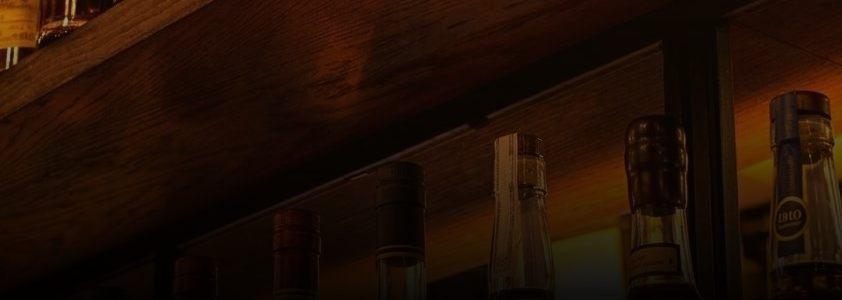
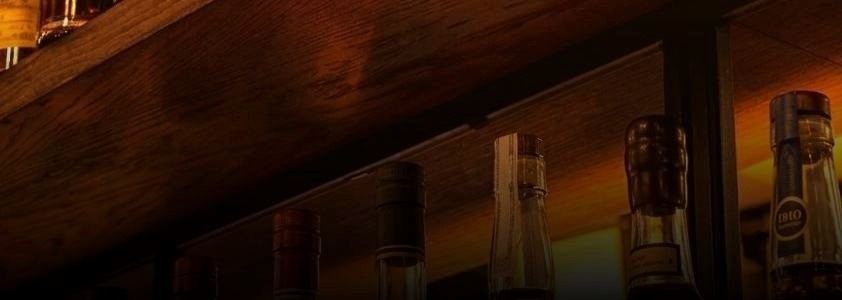
Reduce Home chrome and scope recent ticker

diff --git a/apps/mobile/app/(app)/(tabs)/index.tsx b/apps/mobile/app/(app)/(tabs)/index.tsx
@@ -107,6 +107,7 @@ export default function SignalFeedScreen() {
     community: { ...DEFAULT_SIGNAL_FILTERS },
   });
   const [bottleQueries, setBottleQueries] = useState<Record<FeedView, string>>({ market: "", community: "" });
+  const [searchExpanded, setSearchExpanded] = useState(false);
   const [remoteAreaState, setRemoteAreaState] = useState("");
   const [remoteAreaOptions, setRemoteAreaOptions] = useState<Array<{ value: string; label: string }>>([]);
   const [areaOptionsLoading, setAreaOptionsLoading] = useState(false);
@@ -114,7 +115,7 @@ export default function SignalFeedScreen() {
   const filters = filtersByView[view];
   const requestFilters = useMemo(() => serverSignalFilters(filters), [filters]);
   const visibleSignals = useMemo(() => filterSignalsByRarity(signals, filters.rarities), [filters.rarities, signals]);
-  const tickerSignals = useMemo(() => recentTickerSignals(visibleSignals, new Date(tickerNow)), [tickerNow, visibleSignals]);
+  const tickerSignals = useMemo(() => recentTickerSignals(visibleSignals, filters.state, new Date(tickerNow)), [filters.state, tickerNow, visibleSignals]);
   const tickerSignal = tickerSignals.length ? tickerSignals[tickerIndex % tickerSignals.length] : null;
   const scopeKey = JSON.stringify([view, requestFilters, filters.rarities]);
   const screenActive = screenFocused && appState === "active";
@@ -213,6 +214,7 @@ export default function SignalFeedScreen() {
     setError("");
     setLoaded(false);
     setLoading(false);
+    setSearchExpanded(false);
   }, [view]);
 
   const applyFilters = useCallback((next: SignalFeedFilters) => {
@@ -327,7 +329,7 @@ export default function SignalFeedScreen() {
   }, [screenActive]);
   useEffect(() => {
     if (!screenActive || motionDisabled || tickerSignals.length < 2) return undefined;
-    const timer = setInterval(() => setTickerIndex((current) => (current + 1) % tickerSignals.length), 8_000);
+    const timer = setInterval(() => setTickerIndex((current) => (current + 1) % tickerSignals.length), 5_000);
     return () => clearInterval(timer);
   }, [motionDisabled, screenActive, tickerSignals.length]);
   useEffect(() => {
@@ -352,6 +354,16 @@ export default function SignalFeedScreen() {
     listRef.current?.scrollToOffset({ offset: 0, animated: !motionDisabled });
   }, [motionDisabled, queuedSignals]);
 
+  const toggleBottleSearch = useCallback(() => {
+    if (!searchExpanded) {
+      setSearchExpanded(true);
+      return;
+    }
+    setSearchExpanded(false);
+    Keyboard.dismiss();
+    if (bottleQuery) setBottleQueries((current) => ({ ...current, [view]: "" }));
+  }, [bottleQuery, searchExpanded, view]);
+
   const marketLocked = view === "market" && Boolean(access?.marketDetailsLocked);
   const paidAccessMismatch = Boolean(profile?.membership.paid && marketLocked);
   const canUseFilters = view === "community" || access?.marketDetailsLocked === false;
@@ -359,7 +371,7 @@ export default function SignalFeedScreen() {
   const header = (
     <View style={styles.header}>
       {tickerSignal ? <View accessibilityLabel="Recent reports" style={styles.tickerShell}>
-        <Animated.View style={[styles.tickerAnimated, { opacity: tickerOpacity }]}>
+        <Animated.View style={[styles.tickerAnimated, { opacity: tickerOpacity, transform: [{ translateY: tickerOpacity.interpolate({ inputRange: [0, 1], outputRange: [5, 0] }) }] }]}>
           <Pressable
             accessibilityHint="Opens Signal details"
             accessibilityLabel={`${tickerSignal.bottle.name}, ${tickerLocationLabel(tickerSignal)}, Reported ${signalAccessibilityTime(tickerSignal.timing.displayAt)}`}
@@ -367,16 +379,12 @@ export default function SignalFeedScreen() {
             onPress={() => router.push({ pathname: "/(app)/signal/[id]", params: { id: tickerSignal.id } })}
             style={({ pressed }) => [styles.tickerSignal, pressed && styles.segmentPressed]}
           >
-            <View style={styles.tickerMarker}><MaterialCommunityIcons color={colors.accent} name="radio-tower" size={15} /></View>
-            <Text numberOfLines={1} style={styles.tickerText}>{tickerSignal.bottle.name} · {tickerLocationLabel(tickerSignal)} · Reported {relativeSignalTime(tickerSignal.timing.displayAt)}</Text>
+            <View style={styles.tickerDot} />
+            <Text numberOfLines={1} style={styles.tickerText}><Text style={styles.tickerBottle}>{tickerSignal.bottle.name}</Text> · {tickerLocationLabel(tickerSignal)} · {relativeSignalTime(tickerSignal.timing.displayAt)}</Text>
+            <MaterialCommunityIcons color={colors.muted} name="chevron-right" size={16} />
           </Pressable>
         </Animated.View>
-        {tickerSignals.length > 1 ? <Pressable
-          accessibilityLabel="Show next recent report"
-          accessibilityRole="button"
-          onPress={() => setTickerIndex((current) => (current + 1) % tickerSignals.length)}
-          style={({ pressed }) => [styles.tickerNext, pressed && styles.segmentPressed]}
-        ><MaterialCommunityIcons color={colors.muted} name="chevron-right" size={20} /></Pressable> : null}
+        <View style={styles.tickerDivider} />
       </View> : null}
       <View accessibilityLabel="Signal feed view" style={styles.segmentedControl}>
         <Pressable
@@ -424,7 +432,7 @@ export default function SignalFeedScreen() {
         {filters.state && filters.state !== "NC" && areaOptionsLoading ? <Text style={styles.areaOptionNote}>Loading cities…</Text> : null}
         {filters.state && areaOptionsError ? <Text accessibilityRole="alert" style={styles.areaOptionError}>{areaOptionsError}</Text> : null}
 
-        <View style={styles.filterInputShell}>
+        {searchExpanded || bottleQuery ? <View style={styles.filterInputShell}>
           <MaterialCommunityIcons color={colors.muted} name="magnify" size={20} />
           <TextInput
             autoCapitalize="words"
@@ -439,32 +447,43 @@ export default function SignalFeedScreen() {
             value={bottleQuery}
           />
           {bottleQuery ? <Pressable accessibilityLabel="Clear bottle search" accessibilityRole="button" hitSlop={8} onPress={() => setBottleQueries((current) => ({ ...current, [view]: "" }))} style={styles.inputClearButton}><MaterialCommunityIcons color={colors.muted} name="close-circle" size={19} /></Pressable> : null}
-        </View>
+        </View> : null}
 
-        <ScrollView horizontal keyboardShouldPersistTaps="handled" contentContainerStyle={styles.rarityRow} showsHorizontalScrollIndicator={false} accessibilityLabel="Bottle rarity filters">
+        <View style={styles.filterToolsRow}>
+          <ScrollView horizontal keyboardShouldPersistTaps="handled" contentContainerStyle={styles.rarityRow} showsHorizontalScrollIndicator={false} accessibilityLabel="Bottle rarity filters">
+            <Pressable
+              accessibilityRole="button"
+              accessibilityState={{ selected: filters.rarities.length === 0 }}
+              onPress={() => applyRarityFilters({ ...filters, rarities: [] })}
+              style={({ pressed }) => [styles.rarityChip, filters.rarities.length === 0 && styles.rarityChipSelected, pressed && styles.segmentPressed]}
+            >
+              <Text style={[styles.rarityChipText, filters.rarities.length === 0 && styles.rarityChipTextSelected]}>All</Text>
+            </Pressable>
+            {rarityOptionsForView(view).map((option) => {
+              const selected = filters.rarities.includes(option.value);
+              return (
+                <Pressable
+                  key={option.value}
+                  accessibilityRole="button"
+                  accessibilityState={{ selected }}
+                  onPress={() => applyRarityFilters(toggleRarity(filters, option.value))}
+                  style={({ pressed }) => [styles.rarityChip, selected && styles.rarityChipSelected, pressed && styles.segmentPressed]}
+                >
+                  <Text style={[styles.rarityChipText, selected && styles.rarityChipTextSelected]}>{option.label}</Text>
+                </Pressable>
+              );
+            })}
+          </ScrollView>
           <Pressable
+            accessibilityLabel={searchExpanded ? "Close bottle search" : "Search bottle name"}
             accessibilityRole="button"
-            accessibilityState={{ selected: filters.rarities.length === 0 }}
-            onPress={() => applyRarityFilters({ ...filters, rarities: [] })}
-            style={({ pressed }) => [styles.rarityChip, filters.rarities.length === 0 && styles.rarityChipSelected, pressed && styles.segmentPressed]}
+            accessibilityState={{ expanded: searchExpanded }}
+            onPress={toggleBottleSearch}
+            style={({ pressed }) => [styles.searchToggle, searchExpanded && styles.searchToggleActive, pressed && styles.segmentPressed]}
           >
-            <Text style={[styles.rarityChipText, filters.rarities.length === 0 && styles.rarityChipTextSelected]}>All</Text>
+            <MaterialCommunityIcons color={searchExpanded ? colors.accent : colors.muted} name={searchExpanded ? "close" : "magnify"} size={19} />
           </Pressable>
-          {rarityOptionsForView(view).map((option) => {
-            const selected = filters.rarities.includes(option.value);
-            return (
-              <Pressable
-                key={option.value}
-                accessibilityRole="button"
-                accessibilityState={{ selected }}
-                onPress={() => applyRarityFilters(toggleRarity(filters, option.value))}
-                style={({ pressed }) => [styles.rarityChip, selected && styles.rarityChipSelected, pressed && styles.segmentPressed]}
-              >
-                <Text style={[styles.rarityChipText, selected && styles.rarityChipTextSelected]}>{option.label}</Text>
-              </Pressable>
-            );
-          })}
-        </ScrollView>
+        </View>
       </> : null}
 
       {profileError ? (
@@ -531,32 +550,36 @@ export default function SignalFeedScreen() {
 
 const styles = StyleSheet.create({
   screen: { flex: 1 },
-  list: { paddingHorizontal: 16, paddingTop: 12, paddingBottom: 64 },
+  list: { paddingHorizontal: 16, paddingTop: 0, paddingBottom: 64 },
   separator: { height: StyleSheet.hairlineWidth, backgroundColor: colors.border },
-  header: { gap: 11, marginBottom: 14 },
-  tickerShell: { minHeight: 46, flexDirection: "row", alignItems: "stretch", borderRadius: 12, borderWidth: StyleSheet.hairlineWidth, borderColor: "#5A4127", backgroundColor: "#1D150D", overflow: "hidden" },
-  tickerAnimated: { flex: 1 },
-  tickerSignal: { minHeight: 46, flex: 1, flexDirection: "row", alignItems: "center", gap: 8, paddingLeft: 10, paddingVertical: 5 },
-  tickerMarker: { width: 28, height: 28, borderRadius: 14, alignItems: "center", justifyContent: "center", backgroundColor: "#2B1E11" },
-  tickerText: { flex: 1, color: colors.text, fontSize: 12, lineHeight: 16, fontWeight: "700" },
-  tickerNext: { minWidth: 44, minHeight: 44, alignItems: "center", justifyContent: "center" },
+  header: { gap: 8, marginBottom: 10, paddingTop: 8 },
+  tickerShell: { minHeight: 34, marginHorizontal: -16, paddingHorizontal: 16, justifyContent: "center", overflow: "hidden", backgroundColor: "rgba(29, 21, 13, 0.46)" },
+  tickerAnimated: { minHeight: 34, justifyContent: "center" },
+  tickerSignal: { minHeight: 34, flexDirection: "row", alignItems: "center", gap: 7 },
+  tickerDot: { width: 5, height: 5, borderRadius: 3, backgroundColor: colors.accent },
+  tickerText: { flex: 1, color: colors.muted, fontSize: 11, lineHeight: 15, fontWeight: "500" },
+  tickerBottle: { color: colors.text, fontWeight: "800" },
+  tickerDivider: { position: "absolute", left: 16, right: 16, bottom: 0, height: StyleSheet.hairlineWidth, backgroundColor: "#5A4127" },
   newSignalsPill: { position: "absolute", zIndex: 5, top: 8, alignSelf: "center", minHeight: 44, flexDirection: "row", alignItems: "center", justifyContent: "center", gap: 6, paddingHorizontal: 16, borderRadius: 22, backgroundColor: colors.accent, borderWidth: 1, borderColor: "#F1BC72", shadowColor: "#000", shadowOpacity: 0.32, shadowRadius: 8, shadowOffset: { width: 0, height: 3 }, elevation: 5 },
   newSignalsPillPressed: { backgroundColor: colors.accentPressed, transform: [{ scale: 0.98 }] },
   newSignalsText: { color: "#171009", fontSize: 12, lineHeight: 16, fontWeight: "900" },
-  segmentedControl: { flexDirection: "row", padding: 3, borderRadius: 14, backgroundColor: colors.surface, borderColor: colors.border, borderWidth: StyleSheet.hairlineWidth },
-  segment: { flex: 1, minHeight: 44, borderRadius: 11, flexDirection: "row", alignItems: "center", justifyContent: "center", gap: 7 },
-  segmentSelected: { backgroundColor: "#241A10" },
+  segmentedControl: { flexDirection: "row", borderBottomColor: colors.border, borderBottomWidth: StyleSheet.hairlineWidth },
+  segment: { flex: 1, minHeight: 38, borderBottomWidth: 2, borderBottomColor: "transparent", flexDirection: "row", alignItems: "center", justifyContent: "center", gap: 6 },
+  segmentSelected: { borderBottomColor: colors.accent },
   segmentPressed: { opacity: 0.78 },
   segmentLabel: { color: colors.muted, fontSize: 13, fontWeight: "700" },
   segmentLabelSelected: { color: colors.text },
   geographyRow: { flexDirection: "row", alignItems: "flex-start", justifyContent: "center", gap: 8 },
   filterChooser: { flex: 1, minWidth: 0 },
   filterChooserDisabled: { opacity: 0.48 },
-  rarityRow: { flexGrow: 1, gap: 7, paddingRight: 8, justifyContent: "center" },
-  rarityChip: { minHeight: 36, justifyContent: "center", paddingHorizontal: 13, borderRadius: 18, borderWidth: StyleSheet.hairlineWidth, borderColor: colors.border, backgroundColor: colors.surface },
+  filterToolsRow: { minHeight: 36, flexDirection: "row", alignItems: "center", gap: 7 },
+  rarityRow: { gap: 6, paddingRight: 2, justifyContent: "flex-start" },
+  rarityChip: { minHeight: 32, justifyContent: "center", paddingHorizontal: 12, borderRadius: 16, borderWidth: StyleSheet.hairlineWidth, borderColor: colors.border, backgroundColor: colors.surface },
   rarityChipSelected: { borderColor: colors.accentPressed, backgroundColor: "#2A1F13" },
   rarityChipText: { color: colors.muted, fontSize: 12, fontWeight: "700" },
   rarityChipTextSelected: { color: colors.text },
+  searchToggle: { width: 36, height: 36, flexShrink: 0, alignItems: "center", justifyContent: "center", borderRadius: 18, borderWidth: StyleSheet.hairlineWidth, borderColor: colors.border, backgroundColor: colors.surface },
+  searchToggleActive: { borderColor: colors.accentPressed, backgroundColor: "#2A1F13" },
   inlineError: { borderRadius: 12, borderColor: colors.danger, borderWidth: StyleSheet.hairlineWidth, paddingHorizontal: 12, paddingVertical: 10, backgroundColor: colors.surface },
   inlineErrorText: { color: colors.danger, fontSize: 12, lineHeight: 17 },
   summaryList: { gap: 12 },
@@ -581,7 +604,7 @@ const styles = StyleSheet.create({
   footerError: { color: colors.danger, textAlign: "center" },
   end: { color: colors.muted, textAlign: "center", padding: 24, fontSize: 12 },
   fieldGroup: { gap: 6 },
-  chooserButton: { minHeight: 46, borderRadius: 12, borderWidth: StyleSheet.hairlineWidth, borderColor: colors.border, backgroundColor: colors.surface, paddingHorizontal: 11, flexDirection: "row", alignItems: "center", gap: 7 },
+  chooserButton: { minHeight: 40, borderRadius: 10, borderWidth: StyleSheet.hairlineWidth, borderColor: colors.border, backgroundColor: colors.surface, paddingHorizontal: 10, flexDirection: "row", alignItems: "center", gap: 6 },
   chooserValue: { color: colors.text, fontSize: 13, fontWeight: "600", flex: 1 },
   chooserPlaceholder: { color: colors.muted, fontWeight: "500" },
   chooserOptions: { maxHeight: 190, borderRadius: 12, borderWidth: StyleSheet.hairlineWidth, borderColor: colors.border, backgroundColor: colors.surface },
@@ -590,7 +613,7 @@ const styles = StyleSheet.create({
   chooserOptionText: { color: colors.muted, fontSize: 12, fontWeight: "600" },
   areaOptionNote: { color: colors.muted, fontSize: 11, lineHeight: 15, textAlign: "center" },
   areaOptionError: { color: colors.danger, fontSize: 11, lineHeight: 15, textAlign: "center" },
-  filterInputShell: { minHeight: 46, flexDirection: "row", alignItems: "center", borderRadius: 12, borderWidth: StyleSheet.hairlineWidth, borderColor: colors.border, backgroundColor: colors.surface, paddingLeft: 12, paddingRight: 6, gap: 7 },
-  filterInput: { minHeight: 44, flex: 1, color: colors.text, fontSize: 15, paddingRight: 6 },
+  filterInputShell: { minHeight: 40, flexDirection: "row", alignItems: "center", borderRadius: 10, borderWidth: StyleSheet.hairlineWidth, borderColor: colors.border, backgroundColor: colors.surface, paddingLeft: 10, paddingRight: 4, gap: 6 },
+  filterInput: { minHeight: 38, flex: 1, color: colors.text, fontSize: 14, paddingRight: 5 },
   inputClearButton: { width: 36, height: 36, alignItems: "center", justifyContent: "center" },
 });

diff --git a/apps/mobile/src/signals/feed-screen-contract.test.ts b/apps/mobile/src/signals/feed-screen-contract.test.ts
@@ -45,10 +45,18 @@ test("Signal Feed keeps Intel terminology while preserving the internal market t
   assert.match(feed, /No Intel Signals match these tiers right now/);
 });
 
-test("inline filters stay mounted and receive the first tap while search is focused", () => {
-  const applyFilters = feed.match(/const applyFilters = useCallback\([\s\S]*?\}, \[areaDirectory, view\]\);/)?.[0] || "";
-  assert.ok(applyFilters);
-  assert.doesNotMatch(applyFilters, /setAccess\(null\)/);
+test("bottle search expands on demand without adding a permanent control block", () => {
+  assert.match(feed, /const \[searchExpanded, setSearchExpanded\] = useState\(false\)/);
+  assert.match(feed, /searchExpanded \|\| bottleQuery/);
+  assert.match(feed, /accessibilityLabel=\{searchExpanded \? "Close bottle search" : "Search bottle name"\}/);
   assert.match(feed, /<FlatList[\s\S]*?keyboardShouldPersistTaps="handled"/);
-  assert.ok((feed.match(/keyboardShouldPersistTaps="handled"/g) || []).length >= 3);
+});
+
+test("Home uses a compact scoped ticker rather than another rounded card", () => {
+  assert.match(feed, /recentTickerSignals\(visibleSignals, filters\.state,/);
+  assert.match(feed, /const timer = setInterval[\s\S]*?5_000/);
+  assert.match(feed, /translateY/);
+  assert.match(feed, /tickerDivider/);
+  assert.doesNotMatch(feed, /tickerMarker/);
+  assert.doesNotMatch(feed, /· Reported \{relativeSignalTime/);
 });

diff --git a/apps/mobile/src/signals/home-feed-live.test.ts b/apps/mobile/src/signals/home-feed-live.test.ts
@@ -32,12 +32,18 @@ test("accepting new rows prepends once and preserves existing order", () => {
   assert.deepEqual(acceptQueuedSignals(current, [signal("c", "2026-09-05T13:00:00.000Z"), current[0]]).map((item) => item.id), ["c", "a", "b"]);
 });
 
-test("ticker includes only honest recent availability and formats city/state", () => {
+test("ticker stays empty without a geographic browsing scope", () => {
+  const now = new Date("2026-09-05T15:00:00.000Z");
+  assert.deepEqual(recentTickerSignals([signal("recent", "2026-09-05T13:00:00.000Z")], "", now), []);
+});
+
+test("ticker includes only honest recent availability in newest-first order", () => {
   const now = new Date("2026-09-05T15:00:00.000Z");
   const recent = signal("recent", "2026-09-05T13:00:00.000Z");
+  const newest = signal("newest", "2026-09-05T14:30:00.000Z");
   const future = signal("future", "2026-09-06T13:00:00.000Z");
   const old = signal("old", "2026-08-30T13:00:00.000Z");
   const release = signal("release", "2026-09-05T14:00:00.000Z", { kind: "release" });
-  assert.deepEqual(recentTickerSignals([future, old, release, recent], now).map((item) => item.id), ["recent"]);
+  assert.deepEqual(recentTickerSignals([future, recent, old, release, newest], "NC", now).map((item) => item.id), ["newest", "recent"]);
   assert.equal(tickerLocationLabel(recent), "Raleigh, NC");
 });

diff --git a/apps/mobile/src/signals/home-feed-live.ts b/apps/mobile/src/signals/home-feed-live.ts
@@ -25,14 +25,15 @@ export function acceptQueuedSignals(current: readonly Signal[], queued: readonly
   return uniqueById([...queued, ...current]);
 }
 
-export function recentTickerSignals(signals: readonly Signal[], now = new Date()) {
+export function recentTickerSignals(signals: readonly Signal[], scopeState: string, now = new Date()) {
+  if (!scopeState.trim()) return [];
   const current = now.getTime();
   if (!Number.isFinite(current)) return [];
   return uniqueById(signals).filter((signal) => {
     if (signal.kind !== "availability") return false;
     const reported = Date.parse(signal.timing.displayAt);
     return Number.isFinite(reported) && reported <= current && current - reported < SIGNAL_RECENT_WINDOW_MS;
-  });
+  }).sort((left, right) => Date.parse(right.timing.displayAt) - Date.parse(left.timing.displayAt));
 }
 
 export function tickerLocationLabel(signal: Signal) {

diff --git a/apps/mobile/app/(app)/(tabs)/_layout.tsx b/apps/mobile/app/(app)/(tabs)/_layout.tsx
@@ -79,7 +79,7 @@ const styles = StyleSheet.create({
   brandTitle: { color: colors.text, fontFamily: "Fraunces_700Bold", fontSize: 24, lineHeight: 30, letterSpacing: -0.35 },
   alertButton: { width: 44, height: 44, alignItems: "center", justifyContent: "center", marginRight: 4 },
   pressed: { opacity: 0.68 },
-  homeHeaderImage: { opacity: 0.9 },
-  homeHeaderAmber: { position: "absolute", inset: 0, backgroundColor: "rgba(70, 36, 10, 0.18)" },
-  homeHeaderShade: { position: "absolute", inset: 0, backgroundColor: "rgba(5, 4, 3, 0.28)" },
+  homeHeaderImage: { opacity: 1 },
+  homeHeaderAmber: { position: "absolute", inset: 0, backgroundColor: "rgba(70, 36, 10, 0.08)" },
+  homeHeaderShade: { position: "absolute", inset: 0, backgroundColor: "rgba(5, 4, 3, 0.12)" },
 });

diff --git a/apps/mobile/src/navigation/feed-brand-contract.test.ts b/apps/mobile/src/navigation/feed-brand-contract.test.ts
@@ -14,5 +14,7 @@ test("Home header uses the Bourbon Signal brand font and a real alert-inbox acti
   assert.match(tabs, /name="bell-outline"/);
   assert.match(tabs, /headerBackground: HomeHeaderBackground/);
   assert.match(tabs, /home-shelf-header\.jpg/);
+  assert.match(tabs, /homeHeaderImage: \{ opacity: 1/);
+  assert.match(tabs, /rgba\(5, 4, 3, 0\.12\)/);
   assert.match(tabs, /router\.push\(\{ pathname: "\/\(app\)\/\(tabs\)\/radar", params: \{ section: "matches", request: Date\.now\(\)\.toString\(\) \} \}\)/);
 });
